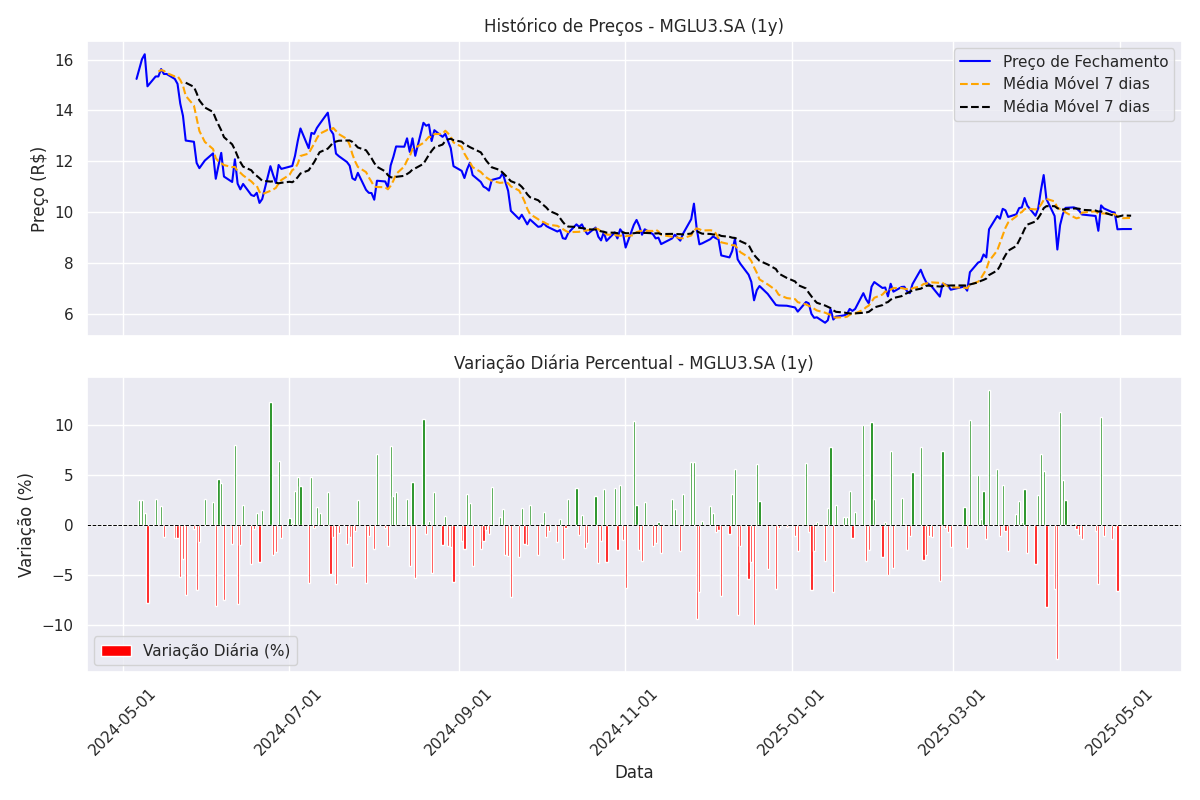
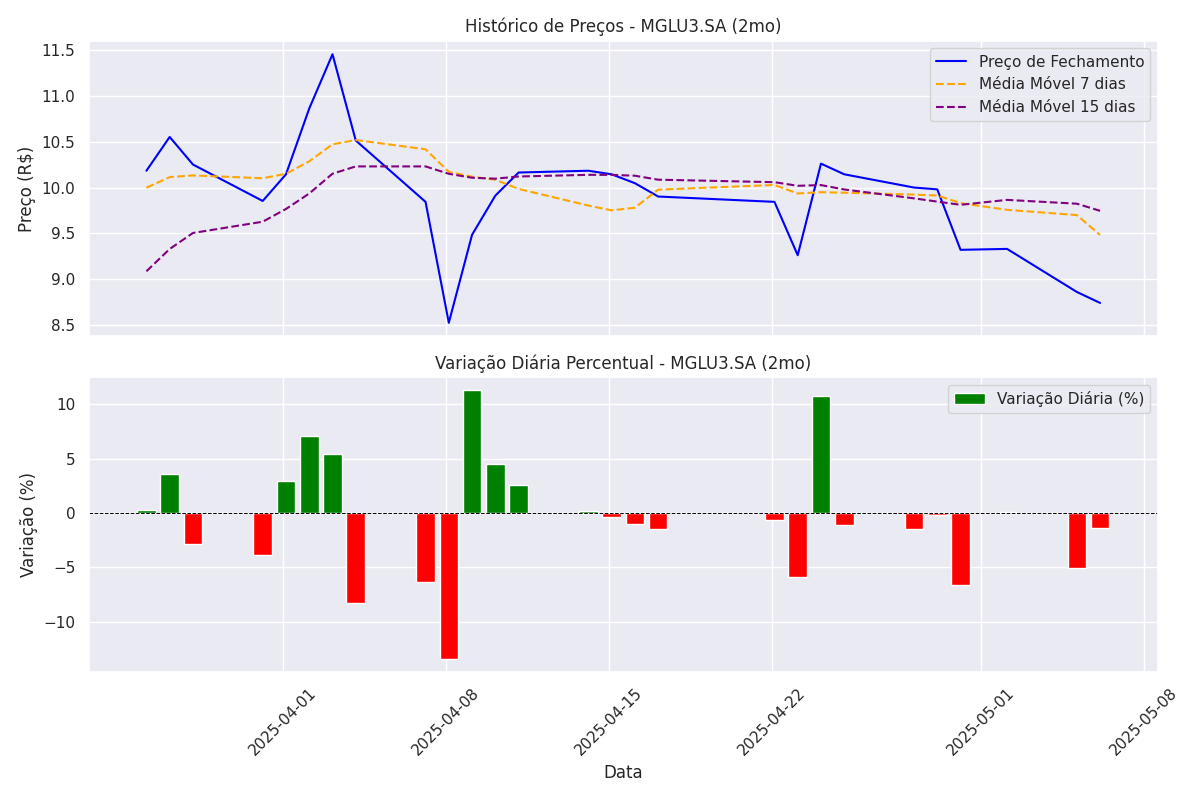
Novas análises sobre os dados

diff --git a/testes.py b/testes.py
@@ -1,0 +1,120 @@
+import pandas as pd
+import matplotlib.pyplot as plt
+import seaborn as sns
+import tickers
+import os
+
+# --- Constantes ---
+TICKERS = ["AAPL", "PETR4.SA", "IVVB11.SA", "VALE3.SA", "BTC-USD"]
+PERIOD = '6mo'
+INVEST = 1_000_000
+CSV_OUTPUT = './csv/results.csv'
+GRAPH_DIR = './graficos'
+
+CONDITIONS = [
+    ("raised[i]", lambda r, n, i: r[i]),
+    ("not raised[i]", lambda r, n, i: not r[i]),
+    ("raised[i] or raised[i-1]", lambda r, n, i: r[i] or r[i-1]),
+    ("not (raised[i] or raised[i-1])", lambda r, n, i: not (r[i] or r[i-1])),
+    ("raised[i] and raised[i-1]", lambda r, n, i: r[i] and r[i-1]),
+    ("not (raised[i] and raised[i-1])", lambda r, n, i: not (r[i] and r[i-1])),
+    ("next[i]", lambda r, n, i: n[i]),
+]
+
+# --- Funções ---
+
+def load_data(ticker, period):
+    """Carrega e prepara os dados de um ticker."""
+    data = tickers.get_ticker_info(ticker, period)
+    data = data[['Close', '% Change', 'Delta_MM', 'Raised', 'Next Raised']]
+    return data.dropna()
+
+
+def simular_estrategia(data, condition_func):
+    """Executa a simulação da estratégia com base na condição fornecida."""
+    close = data['Close'].to_list()
+    raised = data['Raised'].to_list()
+    nexts = data['Next Raised'].to_list()
+
+    montante = INVEST
+    num_acoes = 0
+    valores = []
+
+    for i in range(1, len(close)):
+        if condition_func(raised, nexts, i) and close[i] > 0:
+            num_acoes += montante // close[i]
+            montante %= close[i]
+        else:
+            montante += close[i] * num_acoes
+            num_acoes = 0
+        valores.append(montante + close[i] * num_acoes)
+
+    return valores
+
+
+def registrar_resultados(ticker, condition_string, valores, resultados):
+    """Adiciona os resultados da simulação ao dicionário final."""
+    if not valores:
+        return
+
+    resultados['ticker'].append(ticker)
+    resultados['condition'].append(condition_string)
+    resultados['inicio'].append(INVEST)
+    resultados['minimo'].append(min(valores))
+    resultados['maximo'].append(max(valores))
+    resultados['final'].append(valores[-1])
+    resultados['variacao'].append((valores[-1] / INVEST - 1) * 100)
+
+
+def gerar_grafico(df, y_col, titulo, ylabel, filename, ylim=None):
+    """Gera e salva um gráfico de barras agrupado."""
+    plt.figure(figsize=(14, 7))
+    sns.barplot(x='ticker', y=y_col, hue='condition', data=df)
+    plt.title(titulo)
+    plt.xlabel('Ticker')
+    plt.ylabel(ylabel)
+    plt.xticks(rotation=45, ha='right')
+    plt.legend(title='Condição')
+    if y_col == 'variacao':
+        plt.axhline(0, color='grey', linestyle='--', linewidth=0.8)
+        plt.grid(axis='y', linestyle='--', alpha=0.7)
+    if ylim:
+        plt.ylim(*ylim)
+    plt.tight_layout()
+    os.makedirs(GRAPH_DIR, exist_ok=True)
+    plt.savefig(os.path.join(GRAPH_DIR, filename))
+
+
+# --- Execução Principal ---
+
+def main():
+    resultados = {
+        'ticker': [],
+        'condition': [],
+        'inicio': [],
+        'maximo': [],
+        'minimo': [],
+        'final': [],
+        'variacao': [],
+    }
+
+    for ticker in TICKERS:
+        for condition_string, condition_func in CONDITIONS:
+            data = load_data(ticker, PERIOD)
+            if len(data) < 2:
+                print(f"Dados insuficientes para {ticker} com a condição '{condition_string}'. Pulando.")
+                continue
+
+            valores = simular_estrategia(data, condition_func)
+            registrar_resultados(ticker, condition_string, valores, resultados)
+
+    df = pd.DataFrame(resultados)
+    os.makedirs(os.path.dirname(CSV_OUTPUT), exist_ok=True)
+    df.to_csv(CSV_OUTPUT, index=False)
+
+    gerar_grafico(df, 'final', 'Valor Final do Portfólio por Ticker e Condição', 'Valor Final', 'grafico_final.png')
+    gerar_grafico(df, 'variacao', 'Variação Percentual do Portfólio por Ticker e Condição', 'Variação (%)', 'grafico_variacao.png', ylim=(-50, 400))
+
+
+if __name__ == "__main__":
+    main()

diff --git a/plots.py b/plots.py
@@ -6,14 +6,15 @@ def plot_last_closings(data, ticker_name, period):
     sns.set_theme()
     fig, ax = plt.subplots(2, 1, figsize=(12, 8), sharex=True)
 
+    data = data.dropna(subset=['MM_7', 'MM_15'])
+
     # Gráfico 1: Preço de Fechamento
+    # Usa scatter para colorir os pontos com base nas médias móveis
     ax[0].plot(data.index, data['Close'], label='Preço de Fechamento', color='blue')
 
-    # plotagem da média móvel de 7 dias
+    # plotagem da média móvel de 7/15 dias
     ax[0].plot(data.index, data['MM_7'], label='Média Móvel 7 dias', color='orange', linestyle='--')
-
-    # plotagem da média móvel de 15 dias
-    ax[0].plot(data.index, data['MM_15'], label='Média Móvel 7 dias', color='black', linestyle='--')
+    ax[0].plot(data.index, data['MM_15'], label='Média Móvel 15 dias', color='purple', linestyle='--')
 
     ax[0].set_ylabel('Preço (R$)')
     ax[0].set_title(f'Histórico de Preços - {ticker_name} ({period})')
@@ -21,7 +22,6 @@ def plot_last_closings(data, ticker_name, period):
     ax[0].grid(True)
 
     # Gráfico 2: Variação Diária Percentual
-    # Usaremos barras para melhor visualização das variações diárias
     cores = ['green' if x > 0 else 'red' for x in data['% Change'].fillna(0)] # Verde para positivo, Vermelho para negativo
     ax[1].bar(data.index, data['% Change'], label='Variação Diária (%)', color=cores, width=0.8)
     ax[1].axhline(0, color='black', linestyle='--', linewidth=0.7) # Linha no zero para referência

diff --git a/tickers.py b/tickers.py
@@ -1,3 +1,4 @@
+import numpy as np
 import yfinance as yf
 
 def get_ticker_info(ticker_name, period="1mo", verbose=False):
@@ -5,7 +6,7 @@ def get_ticker_info(ticker_name, period="1mo", verbose=False):
         print(f"Bucando dados para {ticker_name} no período {period}...")
     
     ticker = yf.Ticker(ticker_name)
-    data = ticker.history(period=period)
+    data = ticker.history(period=period)[['Open', 'High', 'Low', 'Close', 'Volume']]
 
     if data.empty:
         if verbose:
@@ -14,8 +15,14 @@ def get_ticker_info(ticker_name, period="1mo", verbose=False):
     
     # adicionando algumas colunas uteis
     data["% Change"] = data["Close"].pct_change() * 100 # variação percentual entre o elemento atual e o anterior
-    data['MM_7'] = data['Close'].rolling(window=7).mean()
-    data['MM_15'] = data['Close'].rolling(window=15).mean()
+
+    data['MM_7']     = data['Close'].rolling(window=7).mean()
+    data['MM_15']    = data['Close'].rolling(window=15).mean()
+    data['Delta_MM'] = data['MM_7'] - data["MM_15"]
+    
+    data['Raised'] = np.where(data["% Change"] > 0, 1, 0)
+    data['Next Raised'] = data['Raised'].shift(-1)
+
     if verbose:
         print("Dados dos últimos 5 dias:", data[["Close", "% Change"]].tail(), sep="\n")
     

diff --git a/main.py b/main.py
@@ -2,8 +2,10 @@ import tickers
 import plots
 
 
-TICKER_NAME = "MGLU3.SA"
-PERIOD = "1y"
+TICKER_NAME = "BTC-USD"
+PERIOD = "max"
 
 data = tickers.get_ticker_info(TICKER_NAME, PERIOD)
 plots.plot_last_closings(data, TICKER_NAME, PERIOD)
+
+# print(data.tail(10))
